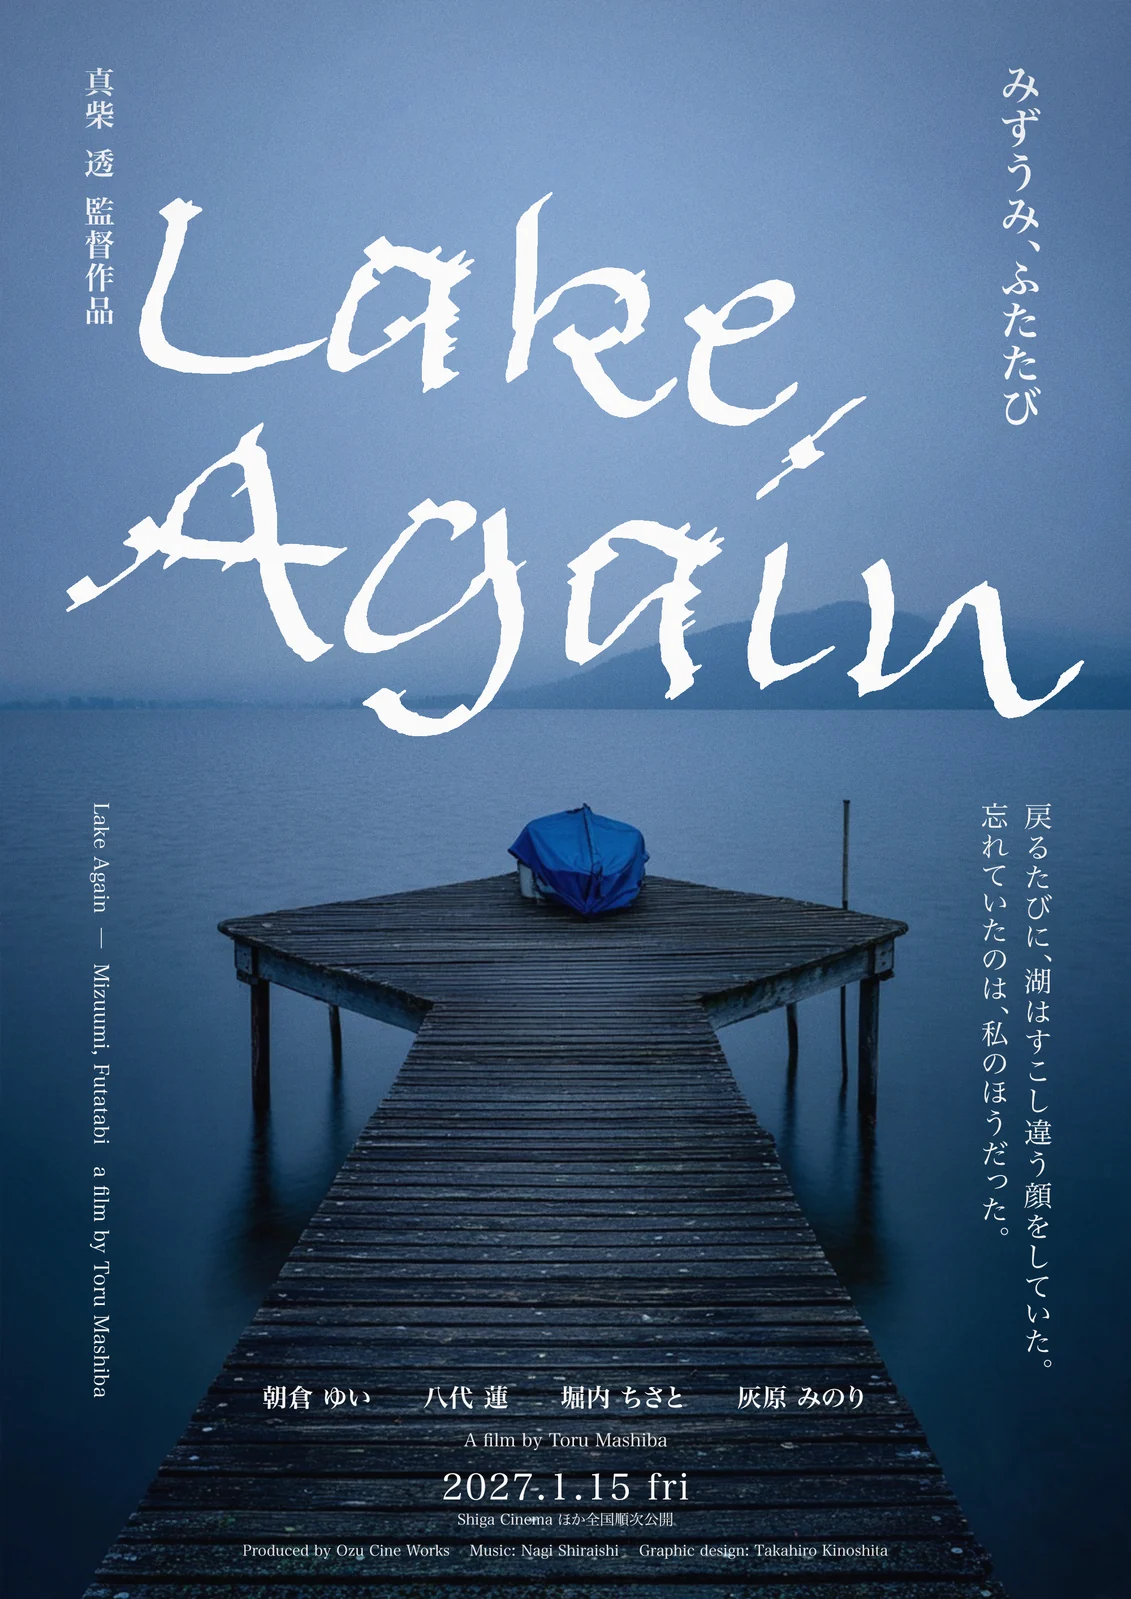
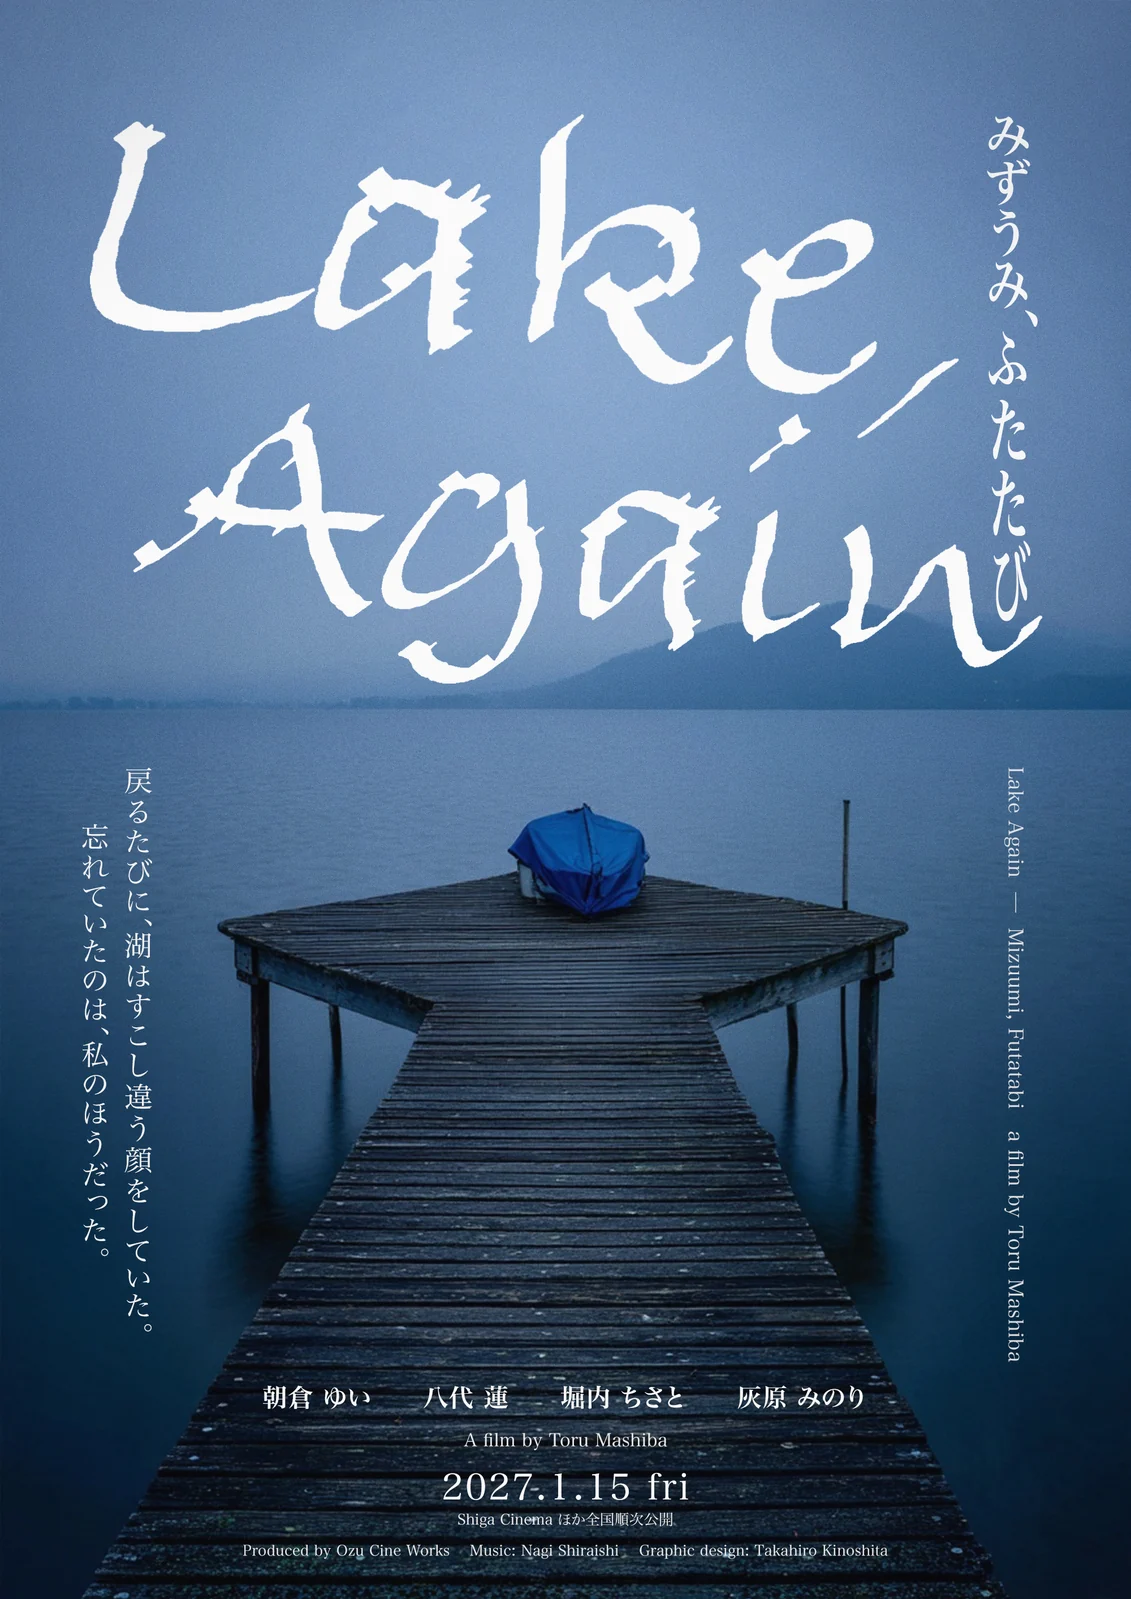
Lake Again：縦の和文を題字の右に添わせ、右の英字を版の内側に収めた版へ差し替え（5か所・?v=20261011b）
Claude-Session: https://claude.ai/code/session_01ACMyxW6X3UEWo7P8KbJSgx

diff --git a/index.html b/index.html
@@ -1877,7 +1877,7 @@
     @media (prefers-reduced-motion:reduce){.works-marquee .track{animation:none}.works-marquee{overflow-x:auto}}
   </style>
   <section class="works-marquee" aria-label="制作物">
-    <a href="taka/" class="track" style="text-decoration:none"><figure><img src="assets/img/marquee/img-poster-yurusanai.webp?v=20261010a" width="424" height="600" alt="木下スタジオ制作：映画ポスター「ゆるさない」" decoding="async"><figcaption>Poster</figcaption></figure><figure><img src="assets/img/marquee/img-poster-lake-again.webp?v=20261011" width="424" height="600" alt="木下スタジオ制作：映画ポスター「Lake Again」" decoding="async"><figcaption>Poster</figcaption></figure><figure><img src="assets/img/marquee/img-poster-hajimarinoiro.webp" width="424" height="600" alt="木下スタジオ制作：映画ポスター「ハジマリノイロ」" decoding="async"><figcaption>Poster</figcaption></figure><figure><img src="assets/img/marquee/9C96D522-9757-448B-9BEA-A83E04468F14.webp" width="423" height="600" alt="木下スタジオ制作：フィルム写真 — 光とフレア" decoding="async"><figcaption>Photo</figcaption></figure><figure><img src="assets/img/marquee/img-poster-amberhour.webp" width="424" height="600" alt="木下スタジオ制作：映画ポスター「アンバーアワー」" decoding="async"><figcaption>Poster</figcaption></figure><figure class="nat"><img src="assets/img/marquee/advinder-logo.webp" width="424" height="600" alt="木下スタジオ制作：ADVINDER ロゴ" decoding="async"><figcaption>Logo</figcaption></figure><figure><img src="assets/img/marquee/img-graphic-natsunohi.webp" width="480" height="600" alt="木下スタジオ制作：コンセプトグラフィック「夏の日残像」" decoding="async"><figcaption>Graphic</figcaption></figure><figure><img src="assets/img/marquee/img-poster-scratch.webp" width="462" height="600" alt="木下スタジオ制作：映画ポスター「スクラッチ」" decoding="async"><figcaption>Poster</figcaption></figure><figure><img src="assets/img/marquee/img-poster-mshalo.webp?v=20260929" width="424" height="600" alt="木下スタジオ制作：映画ポスター「MS. HALO」" decoding="async"><figcaption>Poster</figcaption></figure><figure class="nat"><img src="assets/img/marquee/advinder-logo-poster.webp" width="424" height="600" alt="木下スタジオ制作：ADVINDER ポスター" decoding="async"><figcaption>Poster</figcaption></figure><figure class="nat"><img src="assets/img/marquee/orenihakankeinai.webp" width="600" height="600" alt="木下スタジオ制作：切り貼り「俺には関係ない」" decoding="async"><figcaption>Collage</figcaption></figure><figure class="nat"><img src="assets/img/marquee/koegakikoeteru.webp?v=20260928" width="600" height="600" alt="木下スタジオ制作：切り貼り「声が聞こえてる」" decoding="async"><figcaption>Collage</figcaption></figure><figure class="nat"><img src="assets/img/marquee/rescueme.webp?v=20261001" width="600" height="600" alt="木下スタジオ制作：切り貼り「RESCUE ME」" decoding="async"><figcaption>Collage</figcaption></figure><figure class="nat"><img src="assets/img/marquee/minamo.webp?v=20260928" width="600" height="600" alt="木下スタジオ制作：キービジュアル「みなも兄弟」" decoding="async"><figcaption>Key Visual</figcaption></figure><figure class="nat"><img src="assets/img/marquee/f299.webp" width="480" height="600" alt="木下スタジオ制作：プールサイド" decoding="async"><figcaption>Typography</figcaption></figure><figure class="nat"><img src="assets/img/marquee/99l_makafushigi_front.webp" width="600" height="600" alt="木下スタジオ制作：99LETTERS『Makafushigi』カセット" decoding="async"><figcaption>Music</figcaption></figure><figure class="nat"><img src="assets/img/marquee/f232.webp" width="480" height="600" alt="木下スタジオ制作：枡" decoding="async"><figcaption>Typography</figcaption></figure><figure aria-hidden="true"><img src="assets/img/marquee/img-poster-yurusanai.webp?v=20261010a" width="424" height="600" alt="" decoding="async"><figcaption>Poster</figcaption></figure><figure aria-hidden="true"><img src="assets/img/marquee/img-poster-lake-again.webp?v=20261011" width="424" height="600" alt="" decoding="async"><figcaption>Poster</figcaption></figure><figure aria-hidden="true"><img src="assets/img/marquee/img-poster-hajimarinoiro.webp" width="424" height="600" alt="" decoding="async"><figcaption>Poster</figcaption></figure><figure aria-hidden="true"><img src="assets/img/marquee/9C96D522-9757-448B-9BEA-A83E04468F14.webp" width="423" height="600" alt="" decoding="async"><figcaption>Photo</figcaption></figure><figure aria-hidden="true"><img src="assets/img/marquee/img-poster-amberhour.webp" width="424" height="600" alt="" decoding="async"><figcaption>Poster</figcaption></figure><figure class="nat" aria-hidden="true"><img src="assets/img/marquee/advinder-logo.webp" width="424" height="600" alt="" decoding="async"><figcaption>Logo</figcaption></figure><figure aria-hidden="true"><img src="assets/img/marquee/img-graphic-natsunohi.webp" width="480" height="600" alt="" decoding="async"><figcaption>Graphic</figcaption></figure><figure aria-hidden="true"><img src="assets/img/marquee/img-poster-scratch.webp" width="462" height="600" alt="" decoding="async"><figcaption>Poster</figcaption></figure><figure aria-hidden="true"><img src="assets/img/marquee/img-poster-mshalo.webp?v=20260929" width="424" height="600" alt="" decoding="async"><figcaption>Poster</figcaption></figure><figure class="nat" aria-hidden="true"><img src="assets/img/marquee/advinder-logo-poster.webp" width="424" height="600" alt="" decoding="async"><figcaption>Poster</figcaption></figure><figure class="nat" aria-hidden="true"><img src="assets/img/marquee/orenihakankeinai.webp" width="600" height="600" alt="" decoding="async"><figcaption>Collage</figcaption></figure><figure class="nat" aria-hidden="true"><img src="assets/img/marquee/koegakikoeteru.webp?v=20260928" width="600" height="600" alt="" decoding="async"><figcaption>Collage</figcaption></figure><figure class="nat" aria-hidden="true"><img src="assets/img/marquee/rescueme.webp?v=20261001" width="600" height="600" alt="" decoding="async"><figcaption>Collage</figcaption></figure><figure class="nat" aria-hidden="true"><img src="assets/img/marquee/minamo.webp?v=20260928" width="600" height="600" alt="" decoding="async"><figcaption>Key Visual</figcaption></figure><figure class="nat" aria-hidden="true"><img src="assets/img/marquee/f299.webp" width="480" height="600" alt="" decoding="async"><figcaption>Typography</figcaption></figure><figure class="nat" aria-hidden="true"><img src="assets/img/marquee/99l_makafushigi_front.webp" width="600" height="600" alt="" decoding="async"><figcaption>Music</figcaption></figure><figure class="nat" aria-hidden="true"><img src="assets/img/marquee/f232.webp" width="480" height="600" alt="" decoding="async"><figcaption>Typography</figcaption></figure></a>
+    <a href="taka/" class="track" style="text-decoration:none"><figure><img src="assets/img/marquee/img-poster-yurusanai.webp?v=20261010a" width="424" height="600" alt="木下スタジオ制作：映画ポスター「ゆるさない」" decoding="async"><figcaption>Poster</figcaption></figure><figure><img src="assets/img/marquee/img-poster-lake-again.webp?v=20261011b" width="424" height="600" alt="木下スタジオ制作：映画ポスター「Lake Again」" decoding="async"><figcaption>Poster</figcaption></figure><figure><img src="assets/img/marquee/img-poster-hajimarinoiro.webp" width="424" height="600" alt="木下スタジオ制作：映画ポスター「ハジマリノイロ」" decoding="async"><figcaption>Poster</figcaption></figure><figure><img src="assets/img/marquee/9C96D522-9757-448B-9BEA-A83E04468F14.webp" width="423" height="600" alt="木下スタジオ制作：フィルム写真 — 光とフレア" decoding="async"><figcaption>Photo</figcaption></figure><figure><img src="assets/img/marquee/img-poster-amberhour.webp" width="424" height="600" alt="木下スタジオ制作：映画ポスター「アンバーアワー」" decoding="async"><figcaption>Poster</figcaption></figure><figure class="nat"><img src="assets/img/marquee/advinder-logo.webp" width="424" height="600" alt="木下スタジオ制作：ADVINDER ロゴ" decoding="async"><figcaption>Logo</figcaption></figure><figure><img src="assets/img/marquee/img-graphic-natsunohi.webp" width="480" height="600" alt="木下スタジオ制作：コンセプトグラフィック「夏の日残像」" decoding="async"><figcaption>Graphic</figcaption></figure><figure><img src="assets/img/marquee/img-poster-scratch.webp" width="462" height="600" alt="木下スタジオ制作：映画ポスター「スクラッチ」" decoding="async"><figcaption>Poster</figcaption></figure><figure><img src="assets/img/marquee/img-poster-mshalo.webp?v=20260929" width="424" height="600" alt="木下スタジオ制作：映画ポスター「MS. HALO」" decoding="async"><figcaption>Poster</figcaption></figure><figure class="nat"><img src="assets/img/marquee/advinder-logo-poster.webp" width="424" height="600" alt="木下スタジオ制作：ADVINDER ポスター" decoding="async"><figcaption>Poster</figcaption></figure><figure class="nat"><img src="assets/img/marquee/orenihakankeinai.webp" width="600" height="600" alt="木下スタジオ制作：切り貼り「俺には関係ない」" decoding="async"><figcaption>Collage</figcaption></figure><figure class="nat"><img src="assets/img/marquee/koegakikoeteru.webp?v=20260928" width="600" height="600" alt="木下スタジオ制作：切り貼り「声が聞こえてる」" decoding="async"><figcaption>Collage</figcaption></figure><figure class="nat"><img src="assets/img/marquee/rescueme.webp?v=20261001" width="600" height="600" alt="木下スタジオ制作：切り貼り「RESCUE ME」" decoding="async"><figcaption>Collage</figcaption></figure><figure class="nat"><img src="assets/img/marquee/minamo.webp?v=20260928" width="600" height="600" alt="木下スタジオ制作：キービジュアル「みなも兄弟」" decoding="async"><figcaption>Key Visual</figcaption></figure><figure class="nat"><img src="assets/img/marquee/f299.webp" width="480" height="600" alt="木下スタジオ制作：プールサイド" decoding="async"><figcaption>Typography</figcaption></figure><figure class="nat"><img src="assets/img/marquee/99l_makafushigi_front.webp" width="600" height="600" alt="木下スタジオ制作：99LETTERS『Makafushigi』カセット" decoding="async"><figcaption>Music</figcaption></figure><figure class="nat"><img src="assets/img/marquee/f232.webp" width="480" height="600" alt="木下スタジオ制作：枡" decoding="async"><figcaption>Typography</figcaption></figure><figure aria-hidden="true"><img src="assets/img/marquee/img-poster-yurusanai.webp?v=20261010a" width="424" height="600" alt="" decoding="async"><figcaption>Poster</figcaption></figure><figure aria-hidden="true"><img src="assets/img/marquee/img-poster-lake-again.webp?v=20261011b" width="424" height="600" alt="" decoding="async"><figcaption>Poster</figcaption></figure><figure aria-hidden="true"><img src="assets/img/marquee/img-poster-hajimarinoiro.webp" width="424" height="600" alt="" decoding="async"><figcaption>Poster</figcaption></figure><figure aria-hidden="true"><img src="assets/img/marquee/9C96D522-9757-448B-9BEA-A83E04468F14.webp" width="423" height="600" alt="" decoding="async"><figcaption>Photo</figcaption></figure><figure aria-hidden="true"><img src="assets/img/marquee/img-poster-amberhour.webp" width="424" height="600" alt="" decoding="async"><figcaption>Poster</figcaption></figure><figure class="nat" aria-hidden="true"><img src="assets/img/marquee/advinder-logo.webp" width="424" height="600" alt="" decoding="async"><figcaption>Logo</figcaption></figure><figure aria-hidden="true"><img src="assets/img/marquee/img-graphic-natsunohi.webp" width="480" height="600" alt="" decoding="async"><figcaption>Graphic</figcaption></figure><figure aria-hidden="true"><img src="assets/img/marquee/img-poster-scratch.webp" width="462" height="600" alt="" decoding="async"><figcaption>Poster</figcaption></figure><figure aria-hidden="true"><img src="assets/img/marquee/img-poster-mshalo.webp?v=20260929" width="424" height="600" alt="" decoding="async"><figcaption>Poster</figcaption></figure><figure class="nat" aria-hidden="true"><img src="assets/img/marquee/advinder-logo-poster.webp" width="424" height="600" alt="" decoding="async"><figcaption>Poster</figcaption></figure><figure class="nat" aria-hidden="true"><img src="assets/img/marquee/orenihakankeinai.webp" width="600" height="600" alt="" decoding="async"><figcaption>Collage</figcaption></figure><figure class="nat" aria-hidden="true"><img src="assets/img/marquee/koegakikoeteru.webp?v=20260928" width="600" height="600" alt="" decoding="async"><figcaption>Collage</figcaption></figure><figure class="nat" aria-hidden="true"><img src="assets/img/marquee/rescueme.webp?v=20261001" width="600" height="600" alt="" decoding="async"><figcaption>Collage</figcaption></figure><figure class="nat" aria-hidden="true"><img src="assets/img/marquee/minamo.webp?v=20260928" width="600" height="600" alt="" decoding="async"><figcaption>Key Visual</figcaption></figure><figure class="nat" aria-hidden="true"><img src="assets/img/marquee/f299.webp" width="480" height="600" alt="" decoding="async"><figcaption>Typography</figcaption></figure><figure class="nat" aria-hidden="true"><img src="assets/img/marquee/99l_makafushigi_front.webp" width="600" height="600" alt="" decoding="async"><figcaption>Music</figcaption></figure><figure class="nat" aria-hidden="true"><img src="assets/img/marquee/f232.webp" width="480" height="600" alt="" decoding="async"><figcaption>Typography</figcaption></figure></a>
     <p class="cap">Poster · Photo · Graphic · Web · UI</p>
   </section>
 

diff --git a/company-profile/case-study-deck.html b/company-profile/case-study-deck.html
@@ -333,7 +333,7 @@ footer a:hover{color:var(--ink)}
     <div class="strip-wrap reveal">
     <div class="hero-strip" id="strip">
       <figure class="t1"><img src="../assets/img/img-poster-yurusanai.webp?v=20261010a" alt="木下スタジオ制作：映画ポスター「ゆるさない」" loading="eager"><figcaption>Poster</figcaption></figure>
-      <figure class="t1"><img src="../assets/img/img-poster-lake-again.webp?v=20261011" alt="木下スタジオ制作：映画ポスター「Lake Again」" loading="eager"><figcaption>Poster</figcaption></figure>
+      <figure class="t1"><img src="../assets/img/img-poster-lake-again.webp?v=20261011b" alt="木下スタジオ制作：映画ポスター「Lake Again」" loading="eager"><figcaption>Poster</figcaption></figure>
       <figure class="t1"><img src="../assets/img/img-poster-hajimarinoiro.webp" alt="木下スタジオ制作：映画ポスター「ハジマリノイロ」" loading="eager"><figcaption>Poster</figcaption></figure>
       <figure class="t1"><img src="../assets/_orphans/9C96D522-9757-448B-9BEA-A83E04468F14.webp" alt="木下スタジオ：フィルム写真 — ライトリーク・光とフレア" fetchpriority="high"><figcaption>Photo</figcaption></figure>
       <figure class="t1"><img src="../assets/img/img-poster-amberhour.webp" alt="木下スタジオ制作：映画ポスター「アンバーアワー」" loading="lazy"><figcaption>Poster</figcaption></figure>

diff --git a/art-direction.html b/art-direction.html
@@ -339,7 +339,7 @@
   <div class="ad-strip-wrap">
     <div class="ad-strip" id="ad-strip">
       <figure><img src="assets/img/img-poster-yurusanai.webp?v=20261010a" alt="木下スタジオ制作：映画ポスター「ゆるさない」" loading="eager"><figcaption>Poster</figcaption></figure>
-      <figure><img src="assets/img/img-poster-lake-again.webp?v=20261011" alt="木下スタジオ制作：映画ポスター「Lake Again」" loading="eager"><figcaption>Poster</figcaption></figure>
+      <figure><img src="assets/img/img-poster-lake-again.webp?v=20261011b" alt="木下スタジオ制作：映画ポスター「Lake Again」" loading="eager"><figcaption>Poster</figcaption></figure>
       <figure><img src="assets/img/img-poster-hajimarinoiro.webp" alt="木下スタジオ制作：映画ポスター「ハジマリノイロ」" loading="eager"><figcaption>Poster</figcaption></figure>
       <figure><img src="assets/_orphans/9C96D522-9757-448B-9BEA-A83E04468F14.webp" alt="木下スタジオ：フィルム写真 — ライトリーク・光とフレア" loading="lazy"><figcaption>Photo</figcaption></figure>
       <figure><img src="assets/img/img-poster-amberhour.webp?v=20260925a" alt="木下スタジオ制作：映画ポスター「アンバーアワー」" loading="lazy"><figcaption>Poster</figcaption></figure>

diff --git a/taka/index.html b/taka/index.html
@@ -524,7 +524,7 @@ main.list{max-width:1440px;margin:0 auto;padding-block:120px 160px}
     <span class="cap"><b>ゆるさない</b><span class="mono">CINEMA POSTER</span><span class="mono r">AD / DESIGN / TITLE</span></span>
   </div>
   <div class="w" data-k="poster" data-tags="daiji">
-    <img src="img/lake_again.webp?v=20261011" alt="Lake Again みずうみ、ふたたび" >
+    <img src="img/lake_again.webp?v=20261011b" alt="Lake Again みずうみ、ふたたび" >
     <span class="cap"><b>Lake Again</b><span class="mono">CINEMA POSTER</span><span class="mono r">AD / DESIGN / TITLE</span></span>
   </div>
   <a href="/flyer-poster-work.html" class="w flip" data-k="poster" data-tags="daiji">

diff --git a/flyer-poster-work.html b/flyer-poster-work.html
@@ -397,7 +397,7 @@
       <div class="work-cat-label">Self-Initiated / Key Visual</div>
     </div>
     <div class="work-visual">
-      <img src="assets/img/img-poster-lake-again.webp?v=20261011"
+      <img src="assets/img/img-poster-lake-again.webp?v=20261011b"
            alt="木下スタジオ（木下貴博 / 滋賀）自主制作：映画ポスター「Lake Again みずうみ、ふたたび」— 霧の湖と桟橋に、白い手書きの欧文題字を置いたキービジュアル"
            class="work-img" width="900" height="1272" loading="lazy">
       <p class="work-desc">霧の湖に、かすれた字を浮かべた。</p>
